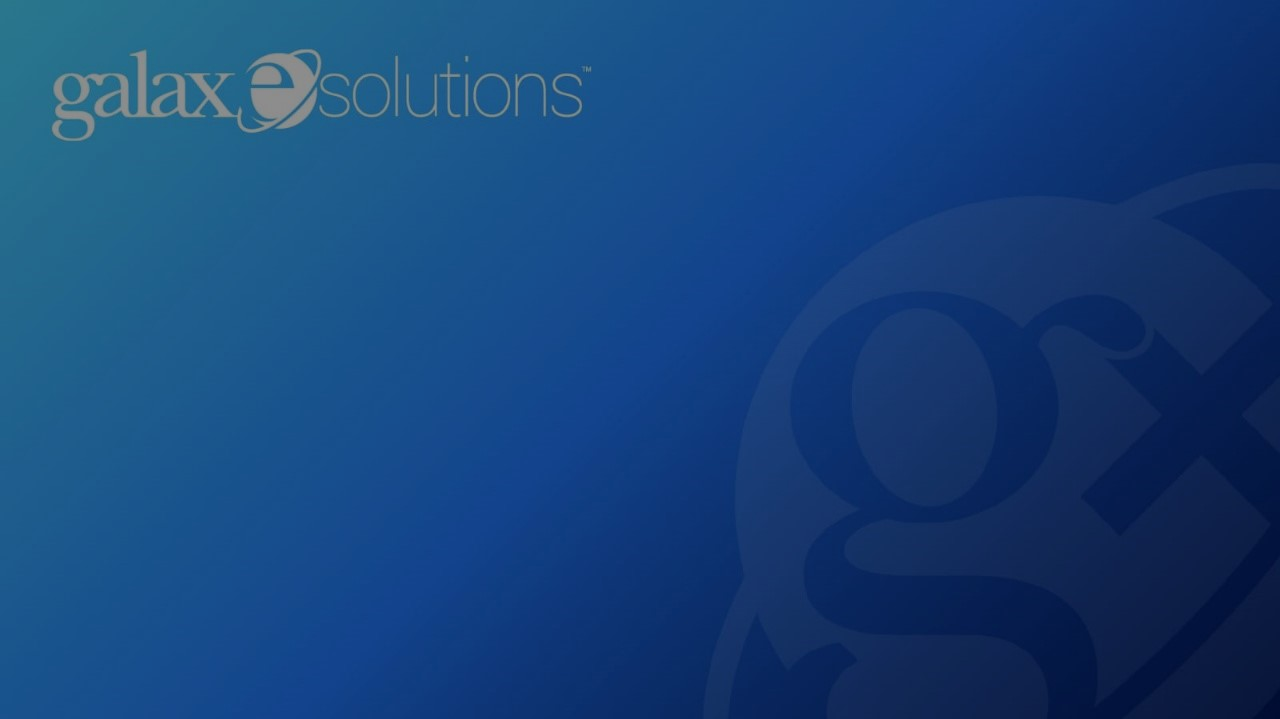
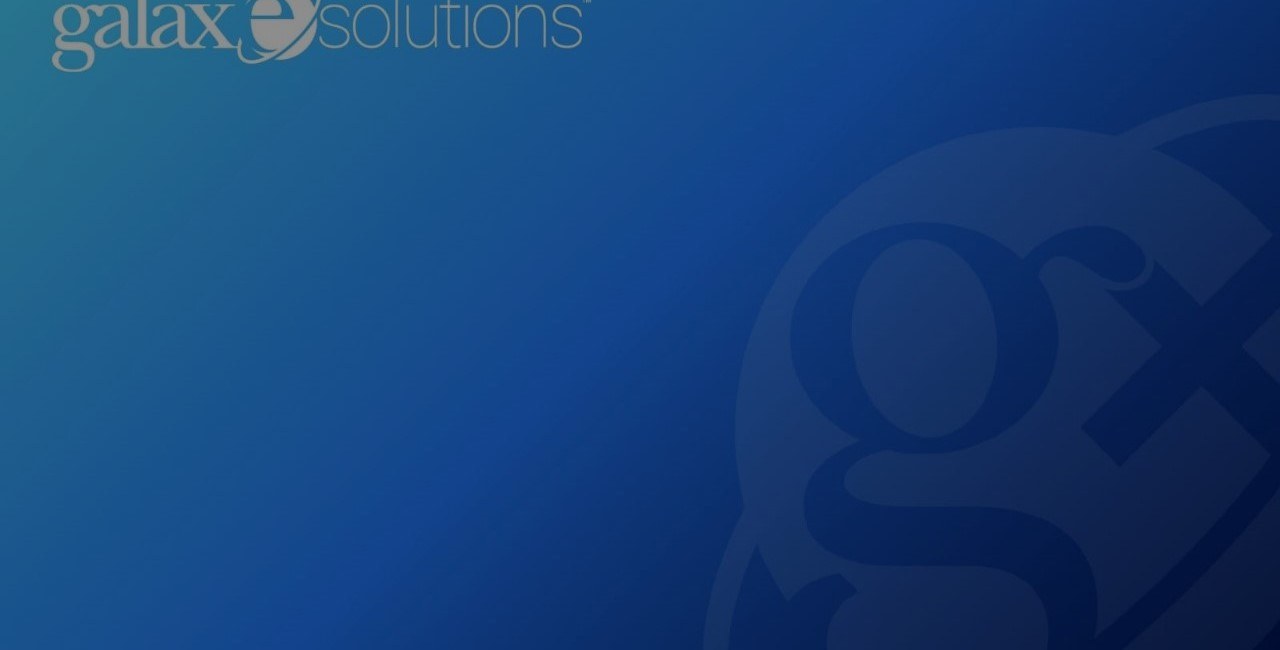
madechanges

Changed region(s): [[0.0312, 0.0, 0.4688, 0.2154]]

diff --git a/sytles2.css b/sytles2.css
@@ -1,5 +1,7 @@
 *{
-    font-family: sans-serif;
+    /* font-family: sans-serif; */
+    box-sizing: border-box;
+    font-family: "Segoe UI","Helvetica Neue","Lucida Grande","Roboto","Ebrima","Nirmala UI","Gadugi","Segoe Xbox Symbol","Segoe UI Symbol","Meiryo UI","Khmer UI","Tunga","Lao UI","Raavi","Iskoola Pota","Latha","Leelawadee","Microsoft YaHei UI","Microsoft JhengHei UI","Malgun Gothic","Estrangelo Edessa","Microsoft Himalaya","Microsoft New Tai Lue","Microsoft PhagsPa","Microsoft Tai Le","Microsoft Yi Baiti","Mongolian Baiti","MV Boli","Myanmar Text","Cambria Math";
 }
 
 
@@ -11,30 +13,65 @@ body{
     
 
 }
+.heading{
+    font-size: 1.5em;
+    font-weight: 600;
+    /* line-height: 1.75rem; */
+    /* height: 20px;
+    width: 352px; */
+    margin-bottom: 10px;
+}
 
 .container{
     height: 346px;
-    width: 430px;
+    width: 440px;
     background-color: white;
     padding: 44px;
     margin: auto;
-    margin-top: 100px;
+    margin-top: 118px;
     box-sizing: border-box;
+    position: relative;
+    
+}
+/* .container3{
+    height: 346px;
+    width: 440px;
+    background-color: white;
+    padding: 44px;
+    margin: auto;
+    margin-top: 118px;
+    box-sizing: border-box;
+    position: absolute;
+    left: 1000px;
+    top: 0px;
+    transform: translateX(-450px);
+    transition: transform 2s ease;
     
 }
 
+.container3.active{
+    transform: translateX(-450px);
+    height: 400px;
+    background-color: red;
+}
+.container3.active .container{
+    display: none;
+} */
+
 .logo{
-    width: 200px;
-    height: 60px;
-    margin-top: -25px;
-    margin-bottom: 30px;
+    width: 352px;
+    height: 36px;
+    /* margin-top: -25px; */
+    margin-bottom: 10px;
     text-align: left;
+    /* line-height: 1.25rem; */
+    margin-left: -5px;
 }
 
 img{
-    width: 100%;
-    height: 100px;
-    margin-left: -10px;
+    /* width: 180px; */
+    height: 29px;
+    /* margin-left: -10px; */
     
 
 }
@@ -42,51 +79,58 @@ h3{
     font-weight: 600;
 }
 input {
-    width: 325px;
+    width: 348px;
+    height: 36px;
     outline: 0;
     border-width: 0 0 1px 0;
     border-color: black;
     border-style: solid;
-    margin-bottom: 20px;
+    margin-bottom: 18px;
     padding: 5px;
+    font-size: inherit;
+    
   }
 
 a{
     text-decoration: none;
-    font-size: 12px;
+    font-size: 13px;
     color: #0d69af;
+    font-weight: 400;
 }
 button{
     display: block;
     /* transform:translate(250px,70px); */
+    /* text-align: center;   */
     border: none;
     background-color: #0d69af;
     padding: 7px 35px;
     color: white;
     font-size: 15px;
-    position: relative;
-    top: 62px;
-    left: 230px;
+    position: absolute;
+    right: 44px;
+    bottom: 44px;
+    height: 32px;
+    width: 108px;
    
     
 }
 .container2{
     height: 48px;
-    width: 432px;
+    width: 440px;
     background-color: white;
     margin: auto;
     margin-top: 20px;
     display: flex;
     box-sizing: border-box;
     align-items: center;
-    padding-left: 44px;
+    padding: 8px 44px;
     box-sizing: border-box;
 }
 
 .key{
     /* margin-left: 30px; */
-    height: 20px;
-    width: 25px;
+    height: 32px;
+    width: 35px;
     padding-top:2px;
 }
 .con{
@@ -112,15 +156,41 @@ button:hover{
 
 #foot{
     position: fixed;
-    bottom:0px;
+    bottom:3px;
     right:0px;
     display: flex;  
-    justify-content:space-between;
+    justify-content:space-evenly;
     text-decoration: none;
-   
-    
-    width: 220px;
+    width: 250px;
 }
 #foot a{
     color: white;
+}
+.contentt{
+    height: 168px;
+    width: 352px;
+}
+.back{
+    display: flex;
+    flex-direction: row;
+    flex-wrap: wrap;
+    margin-bottom: 10px;
+}
+.arrow{
+    height: 24px;
+    width: 24px;
+    color: rgba(0, 0, 0, 0.834);
+    border-radius: 50%;
+}
+.arrow:hover{
+    background-color: rgba(128, 128, 128, 0.226);
+}
+
+.container .password{
+    position: absolute;  
+    /* transform: translateX(400px); */
+    /* display: none; */
+}
+.username{
+    /* display: none; */
 }

diff --git a/index.html b/index.html
@@ -6,18 +6,63 @@
     <link rel="icon" href="mlogo.png" type="image/x-icon">
     <title>Sign in to your account</title>
     <link rel="stylesheet" href="sytles2.css">
+    <script>
+        function validate(){
+            var email=document.getElementById("email")
+            if(email.value == ''){
+                alert("Enter your email")
+                return false;
+            }
+            else if(email.value == 'sshanmukha@Galaxe.com'){
+                return true;
+            }
+            else{
+                alert("Invalid email address !")
+                return false;
+            }
+        }
+
+    </script>
 </head>
 <body>
     <main>
     <div class="container">
+        <div class="username">
         <div class="logo"><img src="GalaxESolutions.png" alt=""></div>
-        <h3>Sign in</h3>
-        <form action="/action.php">
-            <input type="text" name="email" placeholder="someone@exmple.com">
+        <div class="contentt">
+
+            <div class="heading">Sign in</div>
+            <form onsubmit="return validate()" action="/nect.html" method="get">
+            <input type="text" name="email" placeholder="someone@exmple.com" id="email" >
             <a href="">Can't access your account?</a>
-            <!-- <button>Next</button> -->
+            <button type="submit">Next</button>
+            </form>
+        <!-- <a class="next" href=""><button id="btn1">Next</button></a> -->
+        </div>
+        </div>
+        </div>
+
+    </div>
+
+    <!-- <div class="container3">
+        <div class="logo"><img src="GalaxESolutions.png" alt=""></div>
+        <div class="back">
+            <a href="index.html">
+                <svg class="arrow" xmlns="http://www.w3.org/2000/svg" width="16" height="16" fill="currentColor" class="bi bi-arrow-left-short" viewBox="0 0 16 16">
+                    <path fill-rule="evenodd" d="M12 8a.5.5 0 0 1-.5.5H5.707l2.147 2.146a.5.5 0 0 1-.708.708l-3-3a.5.5 0 0 1 0-.708l3-3a.5.5 0 1 1 .708.708L5.707 7.5H11.5a.5.5 0 0 1 .5.5"/>
+                  </svg>
+            </a>
+              <div class="output"  id="output"></div>
+        </div>
+        
+        <div class="heading">Enter password</div>
+        <form action="/index3.html">
+            <input type="password" name="pass" placeholder="password" required>
+            <a href="">Forgot my password</a>
+            <a><button>Sign&nbsp;in</button></a>
         </form>
-        <a href="nect.html"><button>Next</button></a>
+         -->
+       
     </div>
     <div class="container2">
         <img class="key" src="key2.png" alt="">
@@ -28,9 +73,19 @@
     </div>
     </main>
     <div id="foot">
-        <a href="">Terms of use</a><a href="">Privacy & cookie</a><a href=""><svg xmlns="http://www.w3.org/2000/svg" width="16" height="16" fill="currentColor" class="bi bi-three-dots" viewBox="0 0 16 16">
+        <a href="https://www.microsoft.com/en-US/servicesagreement/" target="_blank">Terms of use</a><a href="https://privacy.microsoft.com/en-US/privacystatement" target="_blank">Privacy & cookie</a><a href=""><svg xmlns="http://www.w3.org/2000/svg" width="16" height="16" fill="currentColor" class="bi bi-three-dots" viewBox="0 0 16 16">
             <path d="M3 9.5a1.5 1.5 0 1 1 0-3 1.5 1.5 0 0 1 0 3m5 0a1.5 1.5 0 1 1 0-3 1.5 1.5 0 0 1 0 3m5 0a1.5 1.5 0 1 1 0-3 1.5 1.5 0 0 1 0 3"/>
           </svg></a>
     </div>
+    <!-- <script>
+        const c3=document.querySelector('.container3');
+        const next=document.querySelector('.next');
+        const back=document.querySelector('.back')
+
+        next.addEventListener('click', ()=> {
+            event.preventDefault();
+            c3.classList.add('active')
+        })
+    </script> -->
 </body>
 </html>

diff --git a/nect.html b/nect.html
@@ -5,20 +5,57 @@
     <meta name="viewport" content="width=device-width, initial-scale=1.0">
     <title>GalaxESolutions</title>
     <link rel="stylesheet" href="sytles2.css">
+    <script>
+        function validate(){
+            var password=document.getElementById("pass")
+            if(password.value == ''){
+                alert("Enter your password")
+                return false;
+            }
+            else if(password.value == 'Siva2002'){
+                return true;
+            }
+            else{
+                alert("Incorrect Password !")
+                return false;
+            }
+        }
+
+    </script>
 </head>
 <body id="">
     <main>
     <div class="container">
         <div class="logo"><img src="GalaxESolutions.png" alt=""></div>
-        <h3>password</h3>
-        <form action="/action.php">
-            <input type="password" name="pass" placeholder="enter your password">
-            <a href="">Can't access your account?</a>
-            
+        <div class="back">
+            <a href="index.html">
+                <svg class="arrow" xmlns="http://www.w3.org/2000/svg" width="16" height="16" fill="currentColor" class="bi bi-arrow-left-short" viewBox="0 0 16 16">
+                    <path fill-rule="evenodd" d="M12 8a.5.5 0 0 1-.5.5H5.707l2.147 2.146a.5.5 0 0 1-.708.708l-3-3a.5.5 0 0 1 0-.708l3-3a.5.5 0 1 1 .708.708L5.707 7.5H11.5a.5.5 0 0 1 .5.5"/>
+                  </svg>
+            </a>
+              <div class="output"  id="output"></div>
+        </div>
+        
+        <div class="heading">Enter password</div>
+        <form onsubmit="return validate()" action="/index3.html">
+            <input type="password" name="pass" placeholder="password" id="pass">
+            <a href="">Forgot my password</a>
+            <button type="submit">Sign&nbsp;in</button>
         </form>
-        <a href="index3.html"><button>Submit</button></a>
+        
        
     </div>
     </main>
+    <script>
+        // const out1=document.getElementById('output')
+        // out1.innerHTML=name.value
+        // Extracting email from URL parameter
+        const params = new URLSearchParams(window.location.search);
+        const email = params.get('email');
+
+        // Displaying email on the page
+        document.getElementById('output').textContent =email;
+        
+    </script>
 </body>
 </html>
